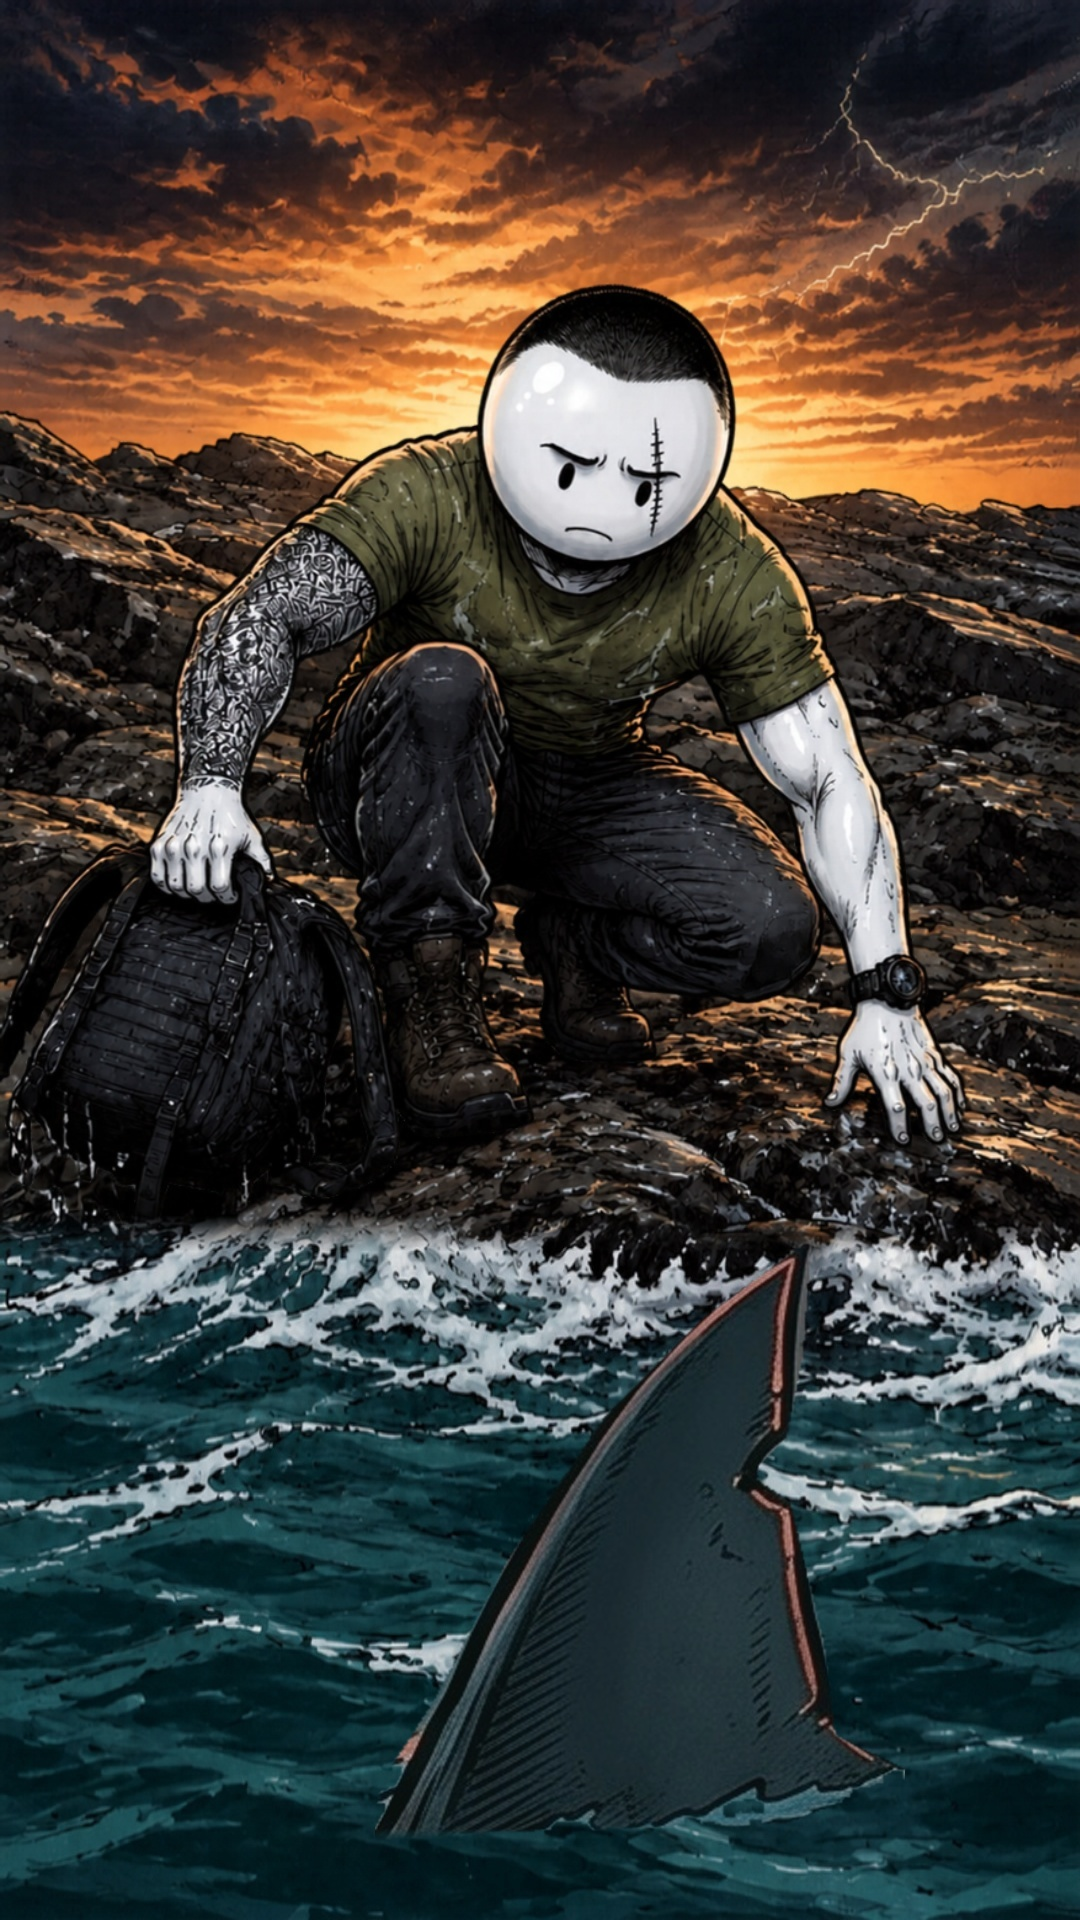
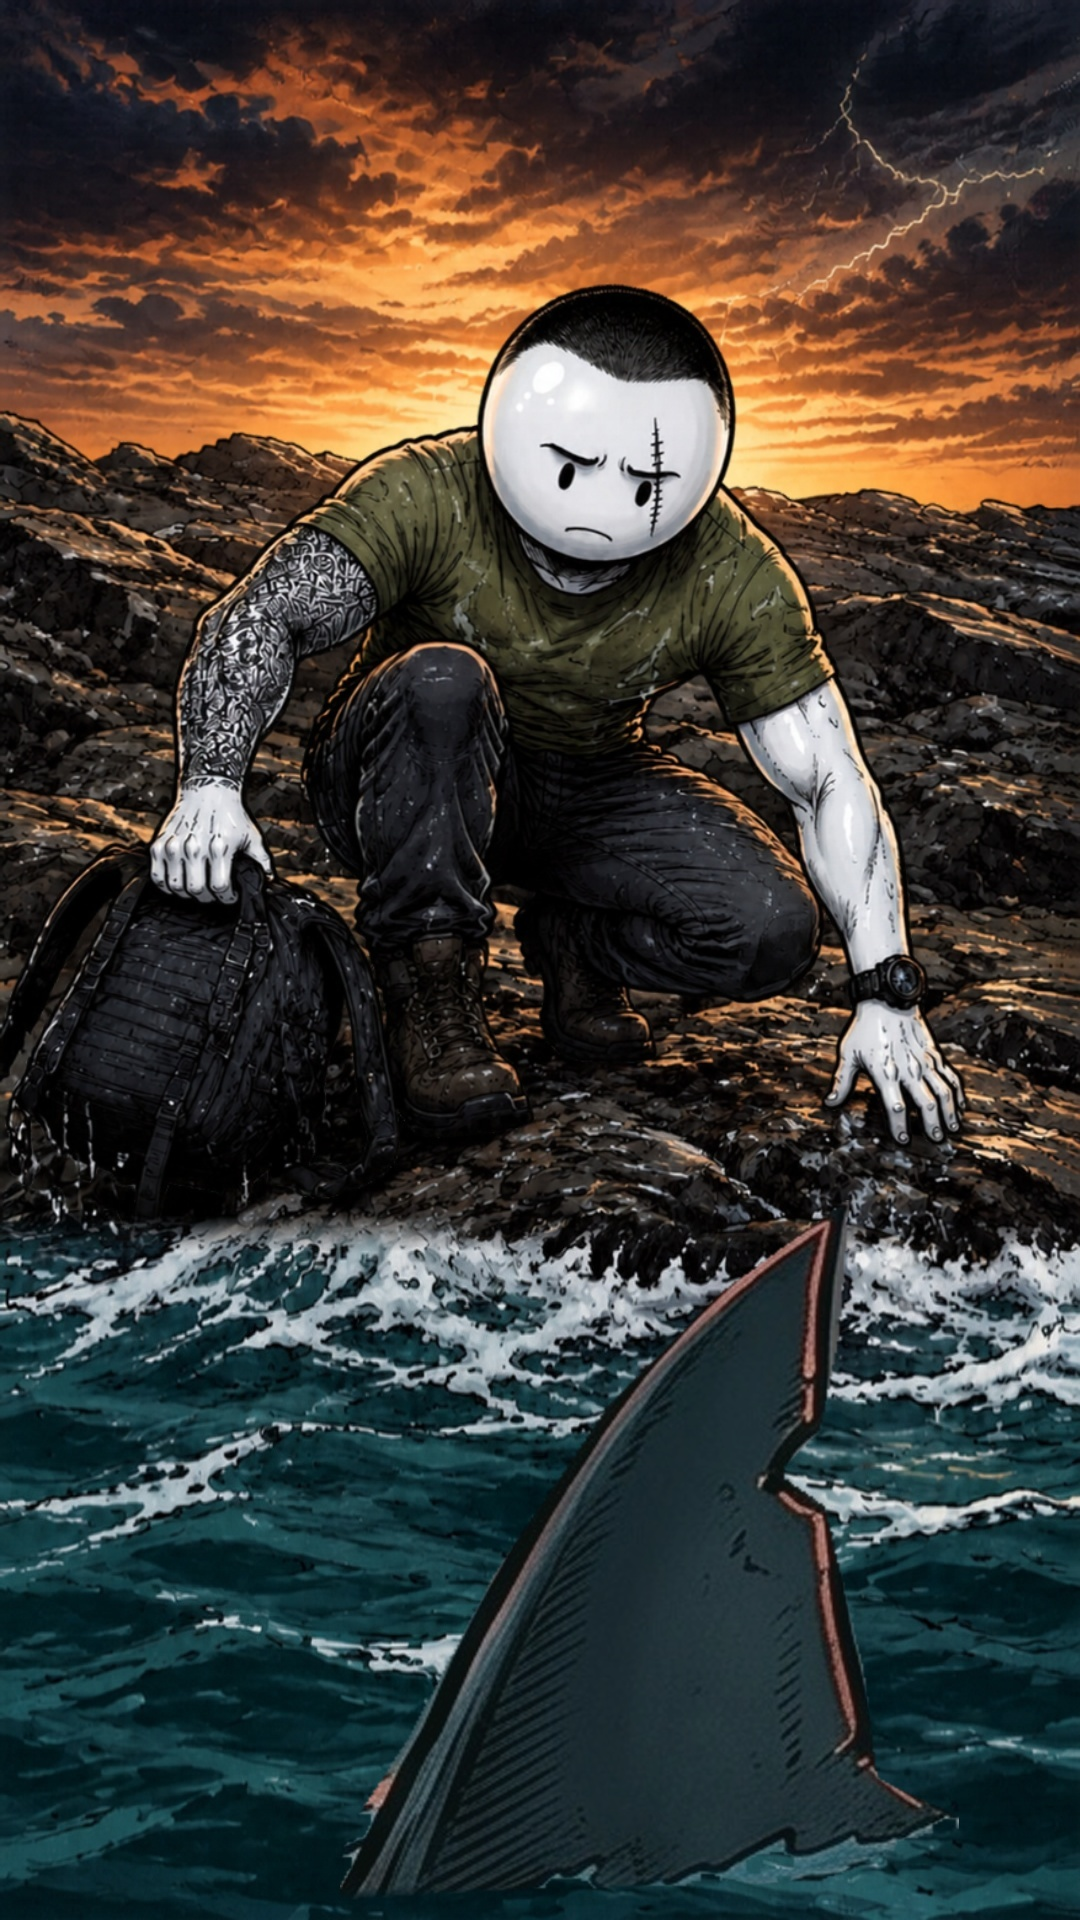
ADA 9: 15 yüzgeç büyütüldü (700px)
Claude-Session: https://claude.ai/code/session_014JxJGGMAcsX945kBrKhihb

Changed region(s): [[0.3361, 0.625, 0.8861, 1.0]]

diff --git a/hikaye-video/projeler/ada9/yuzgec-08.py b/hikaye-video/projeler/ada9/yuzgec-08.py
@@ -9,7 +9,7 @@ CFG = {  # boy: yüzgeç yüksekliği, taban: suya girdiği nokta, sil: eski kü
     '07': dict(boy=290, taban=(790, 640), sil=(838, 402, 905, 458), rim=0.55, ton=(60, 75, 85), kopuk=0.55),
     '09a': dict(boy=520, taban=(1285, 1090), sil=(1205, 730, 1290, 808), rim=0.5, ton=(75, 80, 85), kopuk=0.7),
     '09b': dict(boy=520, taban=(795, 1290), sil=(690, 1045, 960, 1300), rim=0.0, ton=(70, 90, 20), kopuk=0.95),
-    '15': dict(boy=600, taban=(640, 1840), sil=None, rim=0.7, ton=(70, 80, 40), kopuk=0.0)}
+    '15': dict(boy=700, taban=(650, 1900), sil=None, rim=0.7, ton=(70, 80, 40), kopuk=0.0)}
 
 
 def sprite():
